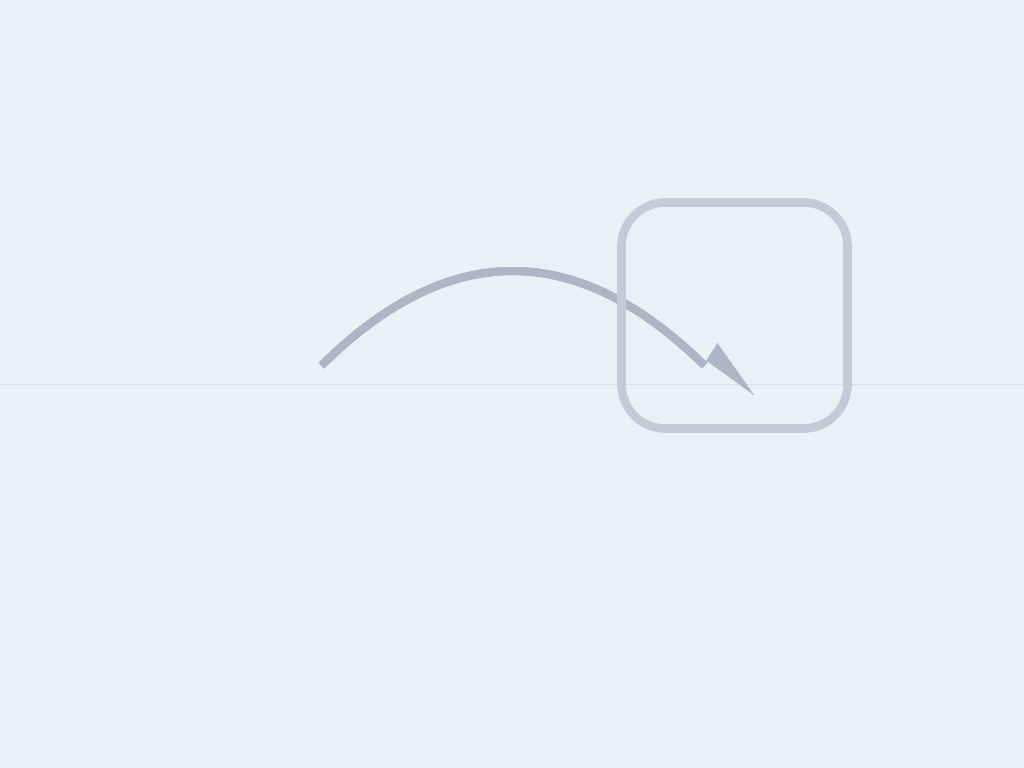
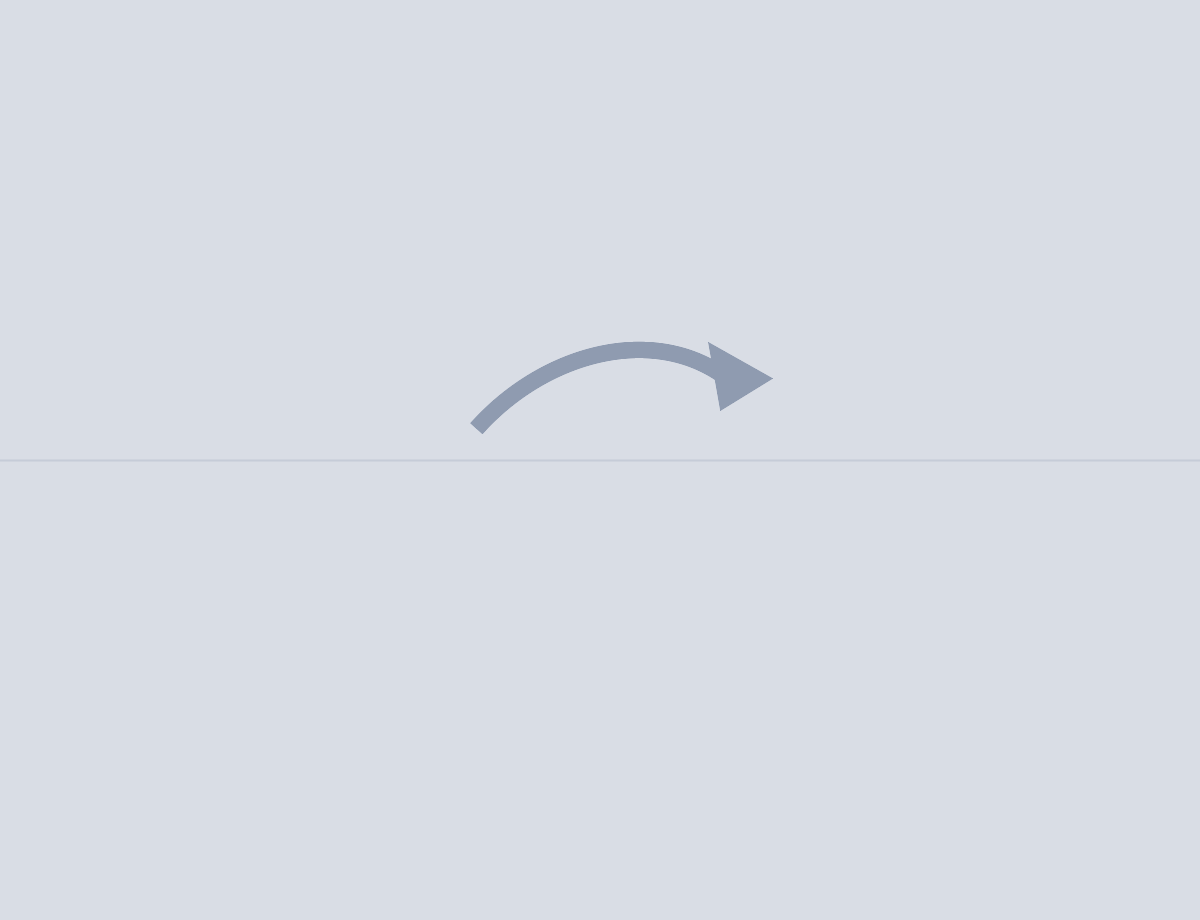
Fix DMG installer download handling

diff --git a/landing/app/pages/index.vue b/landing/app/pages/index.vue
@@ -20,11 +20,10 @@
         <div class="hero-cta">
           <UButton
             :label="downloadPrimaryLabel"
-            :to="activeDownload?.downloadUrl || fallbackReleaseUrl"
-            target="_blank"
             icon="i-lucide-download"
             size="xl"
             class="ring ring-inset ring-primary"
+            @click="downloadActiveInstaller"
           />
 
           <UButton
@@ -131,9 +130,8 @@
           <div class="installer-actions">
             <UButton
               :label="t('home.installers.downloadSelected')"
-              :to="selectedInstaller?.downloadUrl || fallbackReleaseUrl"
-              target="_blank"
               icon="i-lucide-download"
+              @click="downloadSelectedInstaller"
             />
           </div>
         </div>
@@ -380,6 +378,32 @@ async function detectClientProfile(): Promise<IUserAgentProfile> {
         platform: hintedPlatform === 'unknown' ? uaProfile.platform : hintedPlatform,
         arch: hintedArch === 'unknown' ? uaProfile.arch : hintedArch,
     };
+}
+
+function triggerIframeDownload(url: string) {
+    const iframe = document.createElement('iframe');
+    iframe.style.display = 'none';
+    document.body.appendChild(iframe);
+    iframe.src = url;
+    setTimeout(() => iframe.remove(), 60_000);
+}
+
+function downloadActiveInstaller() {
+    const installer = activeDownload.value;
+    if (installer) {
+        triggerIframeDownload(installer.downloadUrl);
+    } else {
+        window.open(fallbackReleaseUrl.value, '_blank');
+    }
+}
+
+function downloadSelectedInstaller() {
+    const installer = selectedInstaller.value;
+    if (installer) {
+        triggerIframeDownload(installer.downloadUrl);
+    } else {
+        window.open(fallbackReleaseUrl.value, '_blank');
+    }
 }
 
 function scrollToInstallers() {
